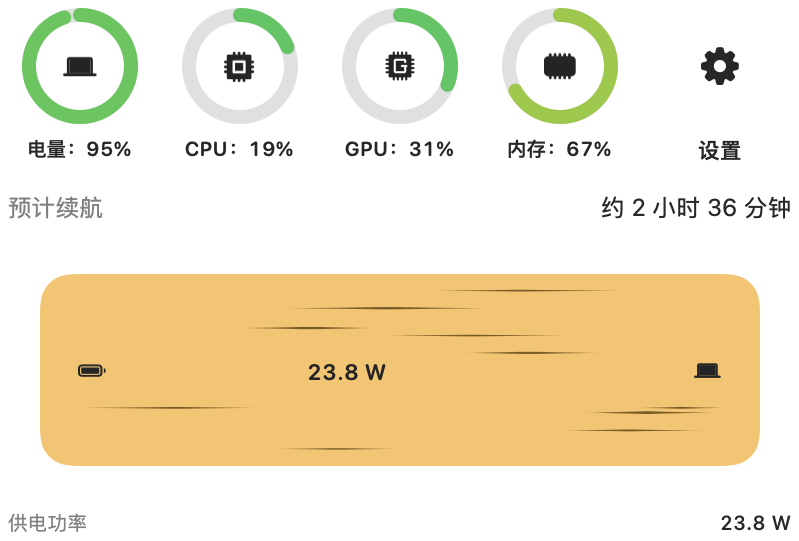
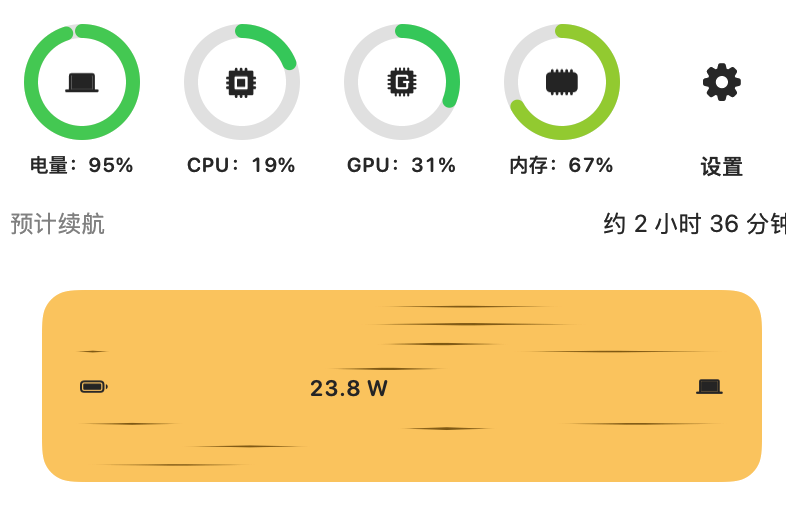
Frost README previews with rounded translucent panels.

diff --git a/MacPower/ReadmeAssetCapture.swift b/MacPower/ReadmeAssetCapture.swift
@@ -12,9 +12,9 @@ enum ReadmeAssetCapture {
         var tint: PopoverTintPreset
     }
 
-    /// Opaque page color so GitHub dark/light both show a real panel, not a
-    /// transparent hole that reads as black.
-    private static let canvasColor = NSColor.windowBackgroundColor
+    /// Soft frosted panel for README embeds — lets the page theme show through.
+    private static let panelFill = NSColor(deviceRed: 1, green: 1, blue: 1, alpha: 0.58)
+    private static let panelCornerPoints: CGFloat = 18
 
     static func startIfNeeded() -> Bool {
         guard CommandLine.arguments.contains("--readme-gallery") else { return false }
@@ -124,12 +124,12 @@ enum ReadmeAssetCapture {
         let size = view.bounds.size
         guard size.width > 1, size.height > 1 else { return false }
         guard let rep = view.bitmapImageRepForCachingDisplay(in: view.bounds) else { return false }
-        // Paint an opaque canvas first — transparent glass holes otherwise ship
-        // as empty alpha and look black on GitHub's dark README theme.
+        // Clear canvas — empty glass holes stay transparent; polish step adds a
+        // frosted rounded panel behind the real content.
         if let ctx = NSGraphicsContext(bitmapImageRep: rep) {
             NSGraphicsContext.saveGraphicsState()
             NSGraphicsContext.current = ctx
-            canvasColor.setFill()
+            NSColor.clear.setFill()
             NSBezierPath.fill(view.bounds)
             NSGraphicsContext.restoreGraphicsState()
         }
@@ -146,26 +146,12 @@ enum ReadmeAssetCapture {
     private static func flattenAndTrim(at url: URL) {
         guard let image = NSImage(contentsOf: url),
               let tiff = image.tiffRepresentation,
-              let rep = NSBitmapImageRep(data: tiff) else { return }
-        let width = rep.pixelsWide
-        let height = rep.pixelsHigh
-        let bg = canvasColor.usingColorSpace(.deviceRGB) ?? canvasColor
-        let bgR = bg.redComponent
-        let bgG = bg.greenComponent
-        let bgB = bg.blueComponent
-
-        // Flatten remaining alpha onto the canvas color.
-        for y in 0..<height {
-            for x in 0..<width {
-                guard let color = rep.colorAt(x: x, y: y) else { continue }
-                let a = color.alphaComponent
-                if a >= 0.999 { continue }
-                let r = color.redComponent * a + bgR * (1 - a)
-                let g = color.greenComponent * a + bgG * (1 - a)
-                let b = color.blueComponent * a + bgB * (1 - a)
-                rep.setColor(NSColor(deviceRed: r, green: g, blue: b, alpha: 1), atX: x, y: y)
-            }
-        }
+              let source = NSBitmapImageRep(data: tiff),
+              let cg = source.cgImage else { return }
+        let width = source.pixelsWide
+        let height = source.pixelsHigh
+        let scale = max(1.0, CGFloat(width) / max(image.size.width, 1))
+        let radius = panelCornerPoints * scale
 
         var minX = width
         var minY = height
@@ -173,12 +159,10 @@ enum ReadmeAssetCapture {
         var maxY = 0
         for y in 0..<height {
             for x in 0..<width {
-                guard let color = rep.colorAt(x: x, y: y) else { continue }
-                let dr = abs(color.redComponent - bgR)
-                let dg = abs(color.greenComponent - bgG)
-                let db = abs(color.blueComponent - bgB)
-                // Keep anything that is not the empty canvas.
-                if dr + dg + db > 0.04 {
+                guard let color = source.colorAt(x: x, y: y) else { continue }
+                let a = color.alphaComponent
+                let lum = color.redComponent * 0.3 + color.greenComponent * 0.59 + color.blueComponent * 0.11
+                if a > 0.08 && lum > 0.04 {
                     minX = min(minX, x)
                     minY = min(minY, y)
                     maxX = max(maxX, x)
@@ -186,7 +170,7 @@ enum ReadmeAssetCapture {
                 }
             }
         }
-        let pad = 8
+        let pad = Int((12 * scale).rounded())
         minX = max(0, minX - pad)
         minY = max(0, minY - pad)
         maxX = min(width - 1, maxX + pad)
@@ -194,12 +178,84 @@ enum ReadmeAssetCapture {
         let cropW = maxX - minX + 1
         let cropH = maxY - minY + 1
         guard cropW > 8, cropH > 8,
-              let cropped = rep.cgImage?.cropping(to: CGRect(x: minX, y: minY, width: cropW, height: cropH))
+              let cropped = cg.cropping(to: CGRect(x: minX, y: minY, width: cropW, height: cropH))
         else { return }
-        let out = NSBitmapImageRep(cgImage: cropped)
+
+        let colorSpace = CGColorSpaceCreateDeviceRGB()
+        guard let ctx = CGContext(
+            data: nil,
+            width: cropW,
+            height: cropH,
+            bitsPerComponent: 8,
+            bytesPerRow: 0,
+            space: colorSpace,
+            bitmapInfo: CGImageAlphaInfo.premultipliedLast.rawValue
+        ) else { return }
+
+        let rect = CGRect(x: 0, y: 0, width: cropW, height: cropH)
+        let panel = CGPath(
+            roundedRect: rect.insetBy(dx: 0.5, dy: 0.5),
+            cornerWidth: radius,
+            cornerHeight: radius,
+            transform: nil
+        )
+
+        // Soften opaque popover chrome before compositing.
+        guard let softened = softenChrome(cropped) else { return }
+
+        ctx.clear(rect)
+        ctx.setFillColor(red: 1, green: 1, blue: 1, alpha: 0.58)
+        ctx.addPath(panel)
+        ctx.fillPath()
+        ctx.draw(softened, in: rect)
+        ctx.setBlendMode(.destinationIn)
+        ctx.setFillColor(gray: 1, alpha: 1)
+        ctx.addPath(panel)
+        ctx.fillPath()
+
+        guard let polished = ctx.makeImage() else { return }
+        let out = NSBitmapImageRep(cgImage: polished)
         if let png = out.representation(using: .png, properties: [:]) {
             try? png.write(to: url)
         }
+    }
+
+    /// Turn near-white chrome into translucent frost so GitHub themes show through.
+    private static func softenChrome(_ image: CGImage) -> CGImage? {
+        let width = image.width
+        let height = image.height
+        let colorSpace = CGColorSpaceCreateDeviceRGB()
+        guard let ctx = CGContext(
+            data: nil,
+            width: width,
+            height: height,
+            bitsPerComponent: 8,
+            bytesPerRow: 0,
+            space: colorSpace,
+            bitmapInfo: CGImageAlphaInfo.premultipliedLast.rawValue
+        ), let data = ctx.data else { return image }
+        ctx.draw(image, in: CGRect(x: 0, y: 0, width: width, height: height))
+        let ptr = data.bindMemory(to: UInt8.self, capacity: width * height * 4)
+        let frost: UInt8 = 148 // ~0.58 * 255 premul white
+        for i in 0..<(width * height) {
+            let o = i * 4
+            let r = Int(ptr[o])
+            let g = Int(ptr[o + 1])
+            let b = Int(ptr[o + 2])
+            let a = Int(ptr[o + 3])
+            if a < 20 {
+                ptr[o] = 0; ptr[o + 1] = 0; ptr[o + 2] = 0; ptr[o + 3] = 0
+                continue
+            }
+            let lum = (r * 30 + g * 59 + b * 11) / 100
+            if lum > 235 && r > 230 && g > 230 && b > 230 {
+                ptr[o] = frost
+                ptr[o + 1] = frost
+                ptr[o + 2] = frost
+                ptr[o + 3] = frost
+            }
+        }
+        return ctx.makeImage()
     }
 }
 
